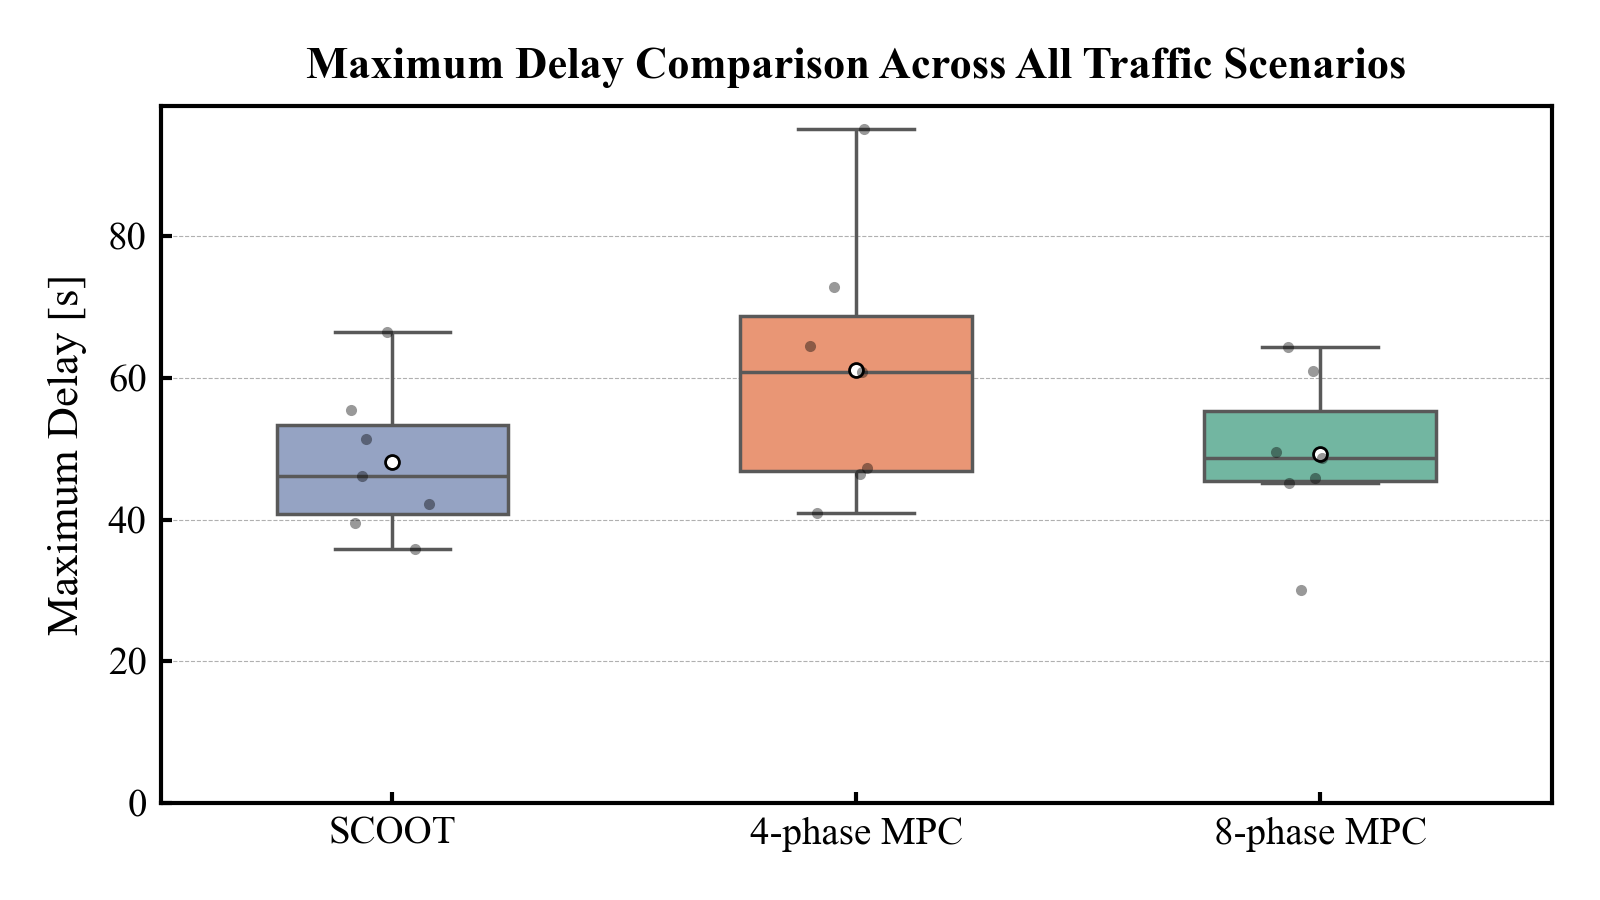
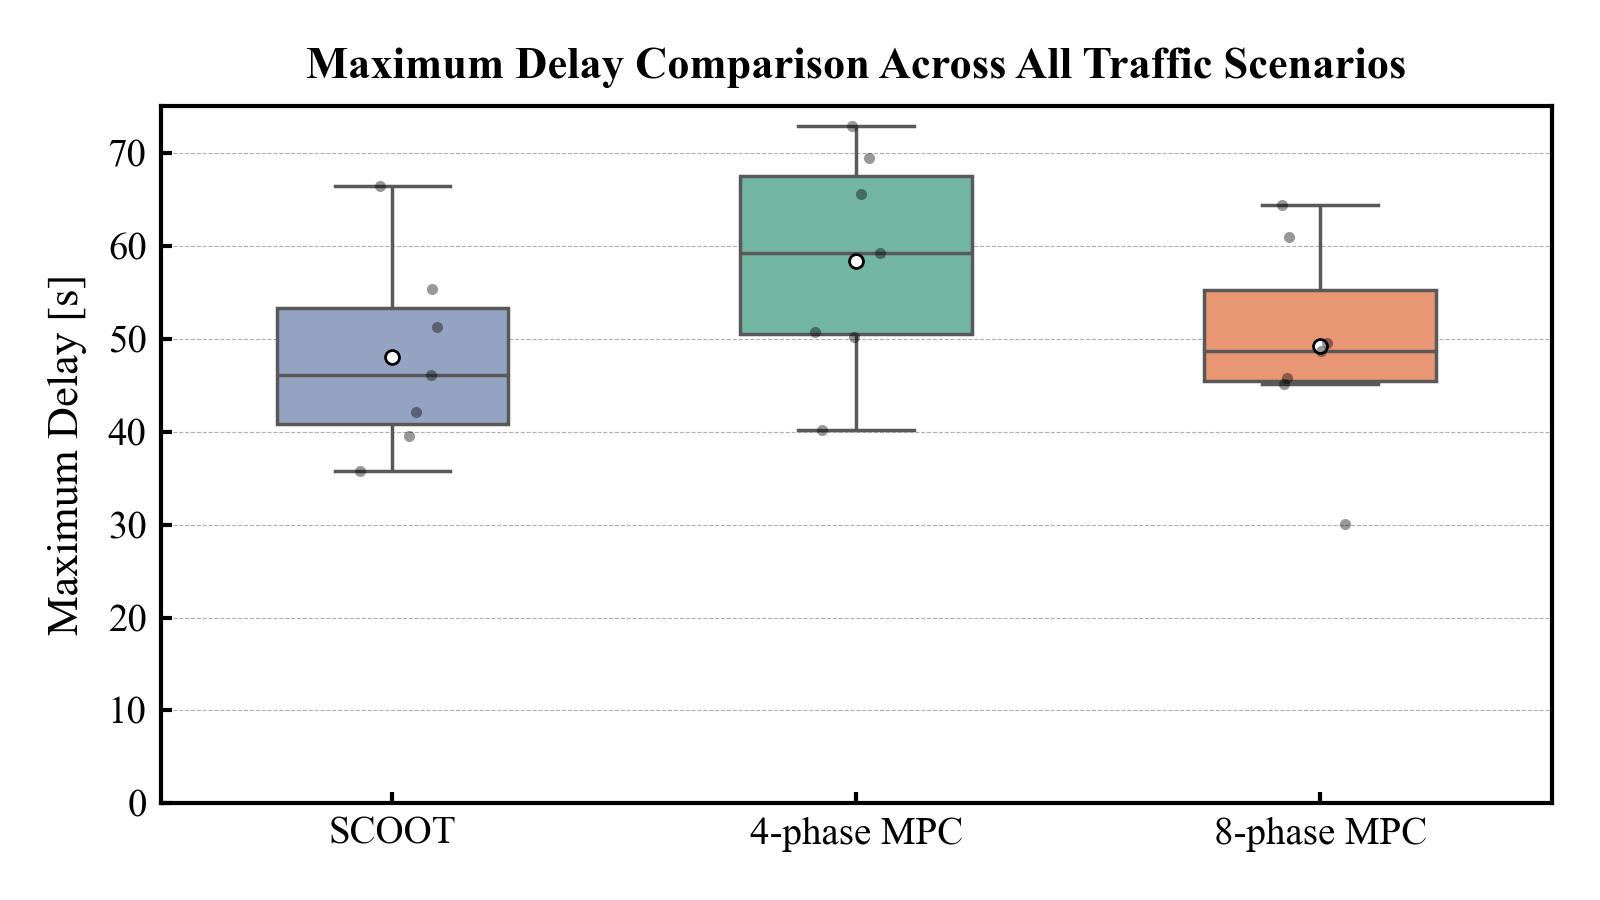
135-実験を保存

diff --git a/misc/analysis/performance_metric_bar_plots/plot.py b/misc/analysis/performance_metric_bar_plots/plot.py
@@ -62,6 +62,8 @@ for simulator_dir_path in layout_dir_path.rglob('simulator_*'):
             continue 
         del method_config['phases']
 
+        config_yaml['mpc']['objective_function']['signal_change']['weight'] = config_yaml['target']['signal_change_weight'][f"{num_phases}-phase"]
+
         if method_config != config_yaml['mpc']:
             continue
         

diff --git a/misc/analysis/performance_metric_box_plots/plot.py b/misc/analysis/performance_metric_box_plots/plot.py
@@ -54,6 +54,8 @@ for simulator_dir_path in layout_dir_path.rglob('simulator_*'):
             continue 
         del method_config['phases']
 
+        config_yaml['mpc']['objective_function']['signal_change']['weight'] = config_yaml['target']['signal_change_weight'][f"{num_phases}-phase"]
+
         if method_config != config_yaml['mpc']:
             continue
         

diff --git a/misc/analysis/performance_metric_stats/make_csv.py b/misc/analysis/performance_metric_stats/make_csv.py
@@ -60,6 +60,8 @@ for simulator_dir_path in layout_dir_path.rglob('simulator_*'):
             continue 
         del method_config['phases']
 
+        config_yaml['mpc']['objective_function']['signal_change']['weight'] = config_yaml['target']['signal_change_weight'][f"{num_phases}-phase"]
+
         if method_config != config_yaml['mpc']:
             continue
         
